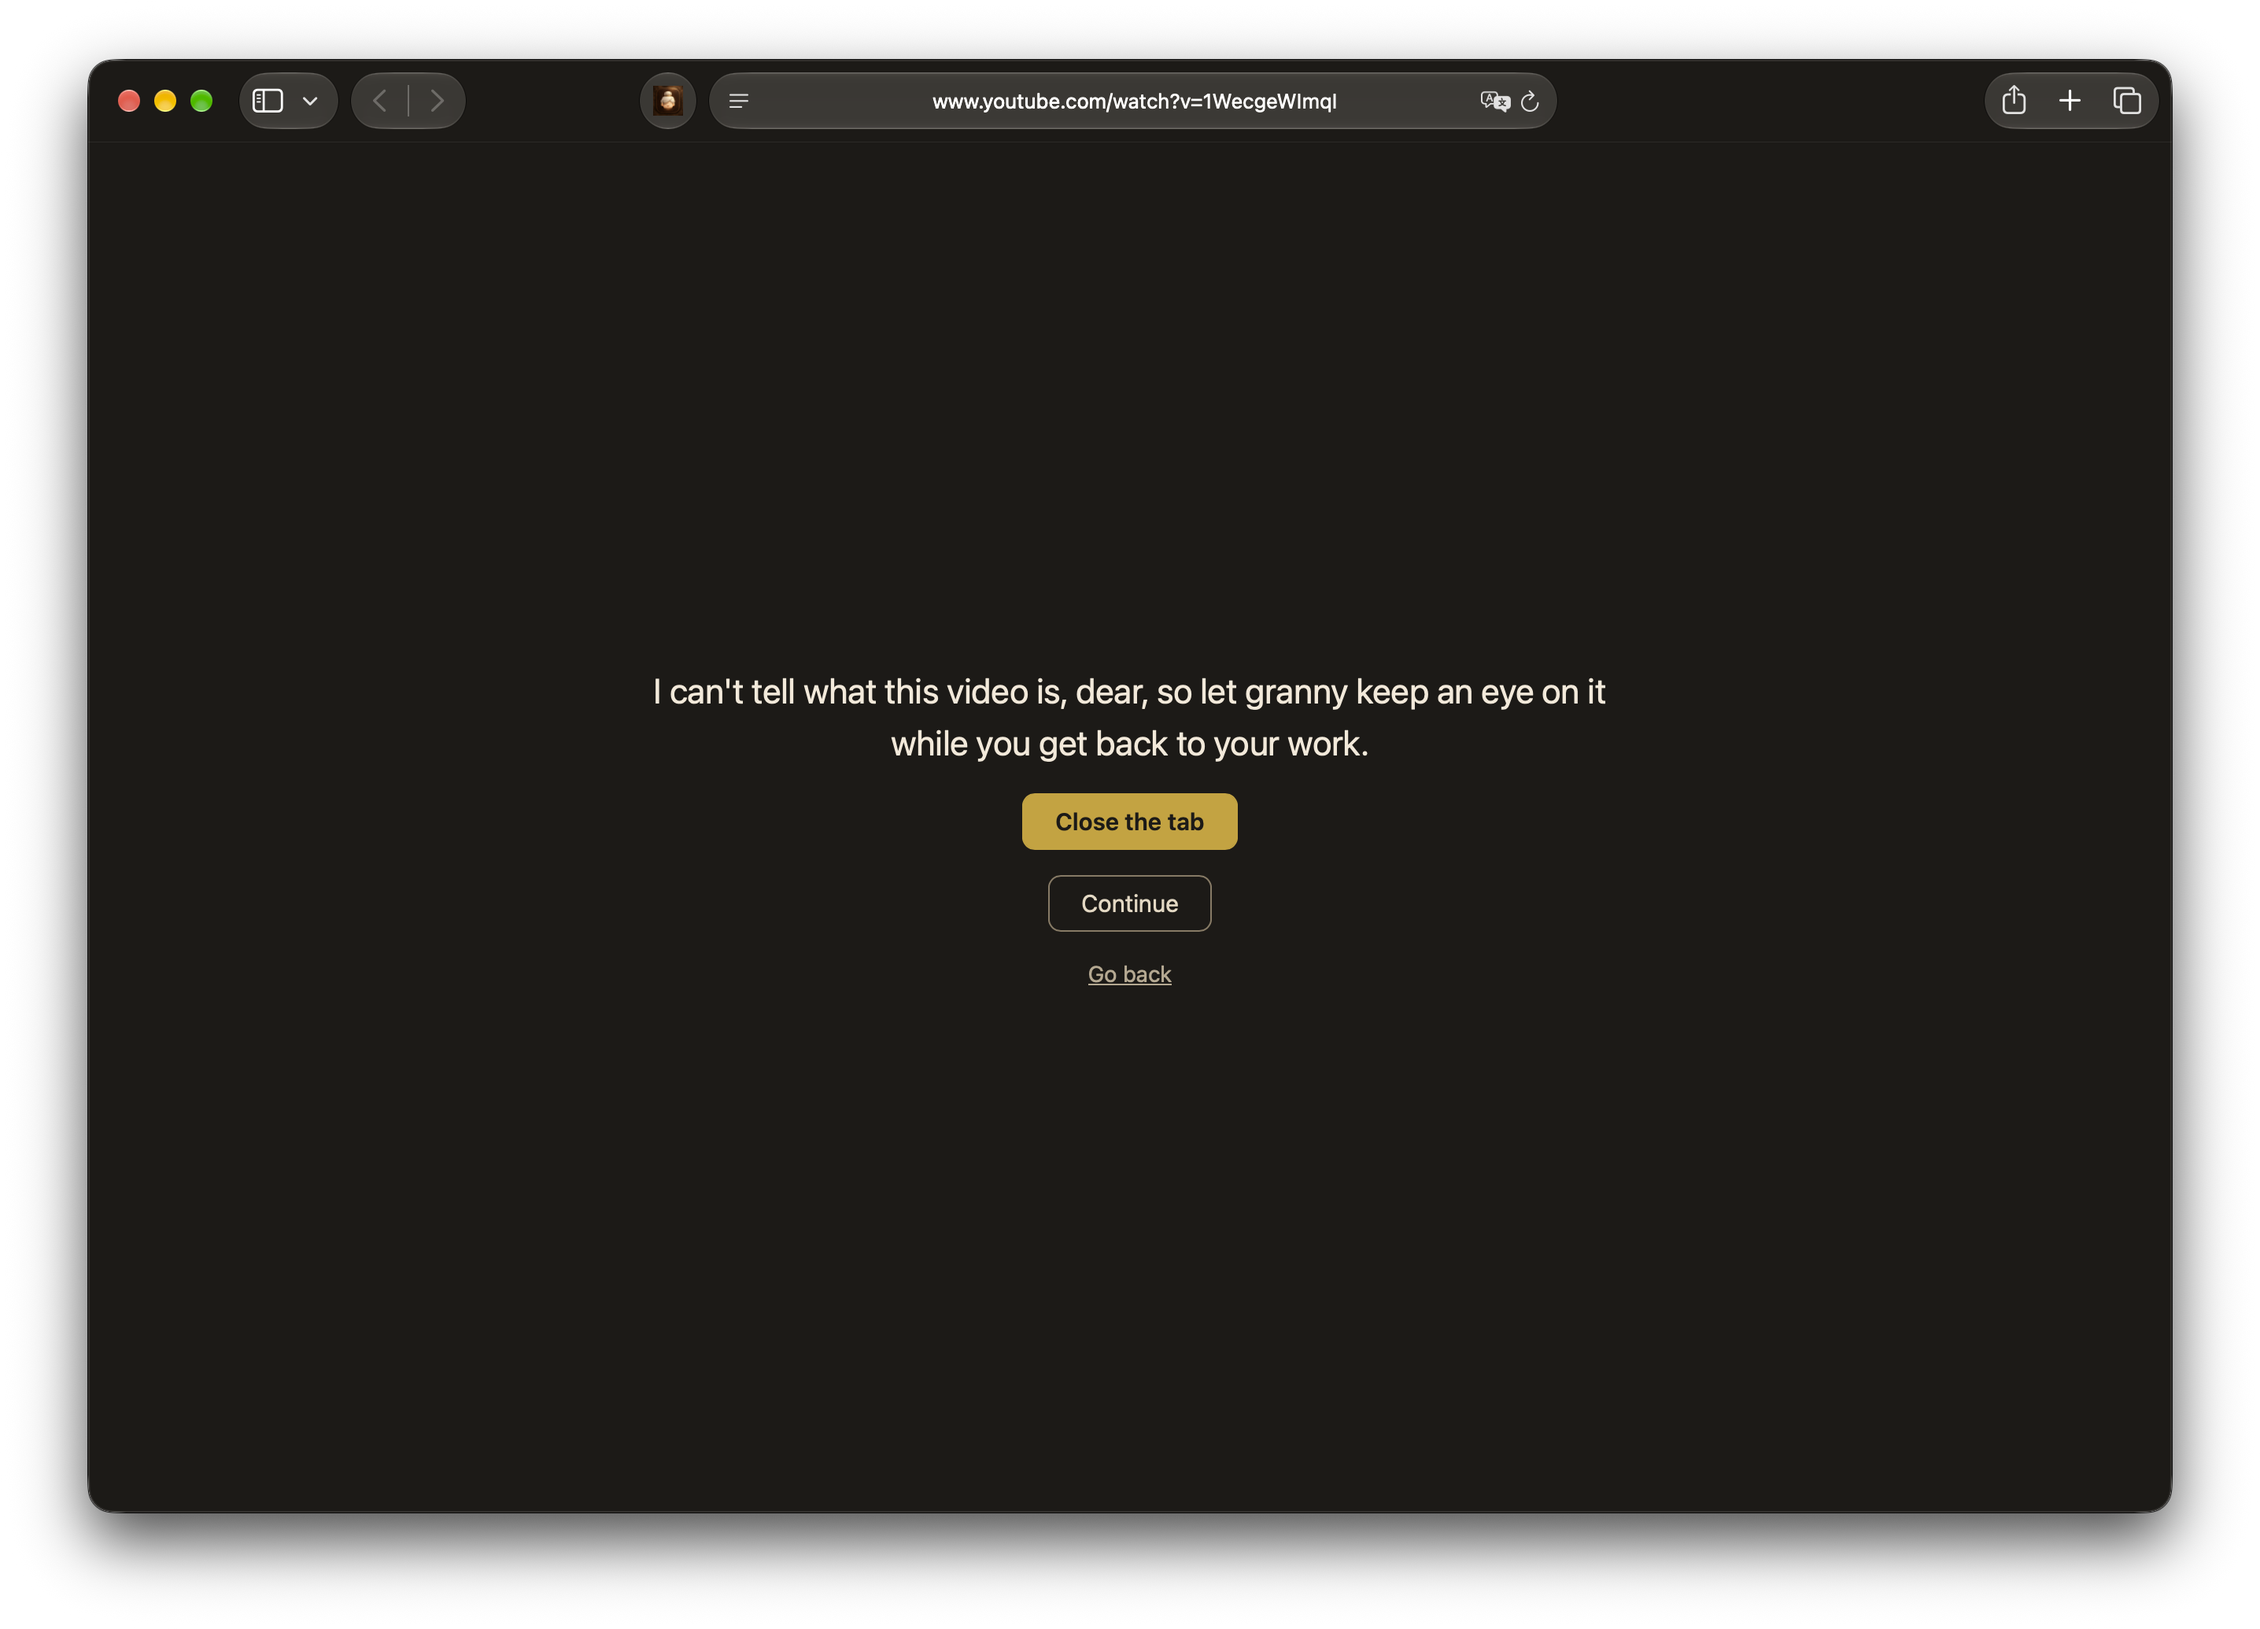
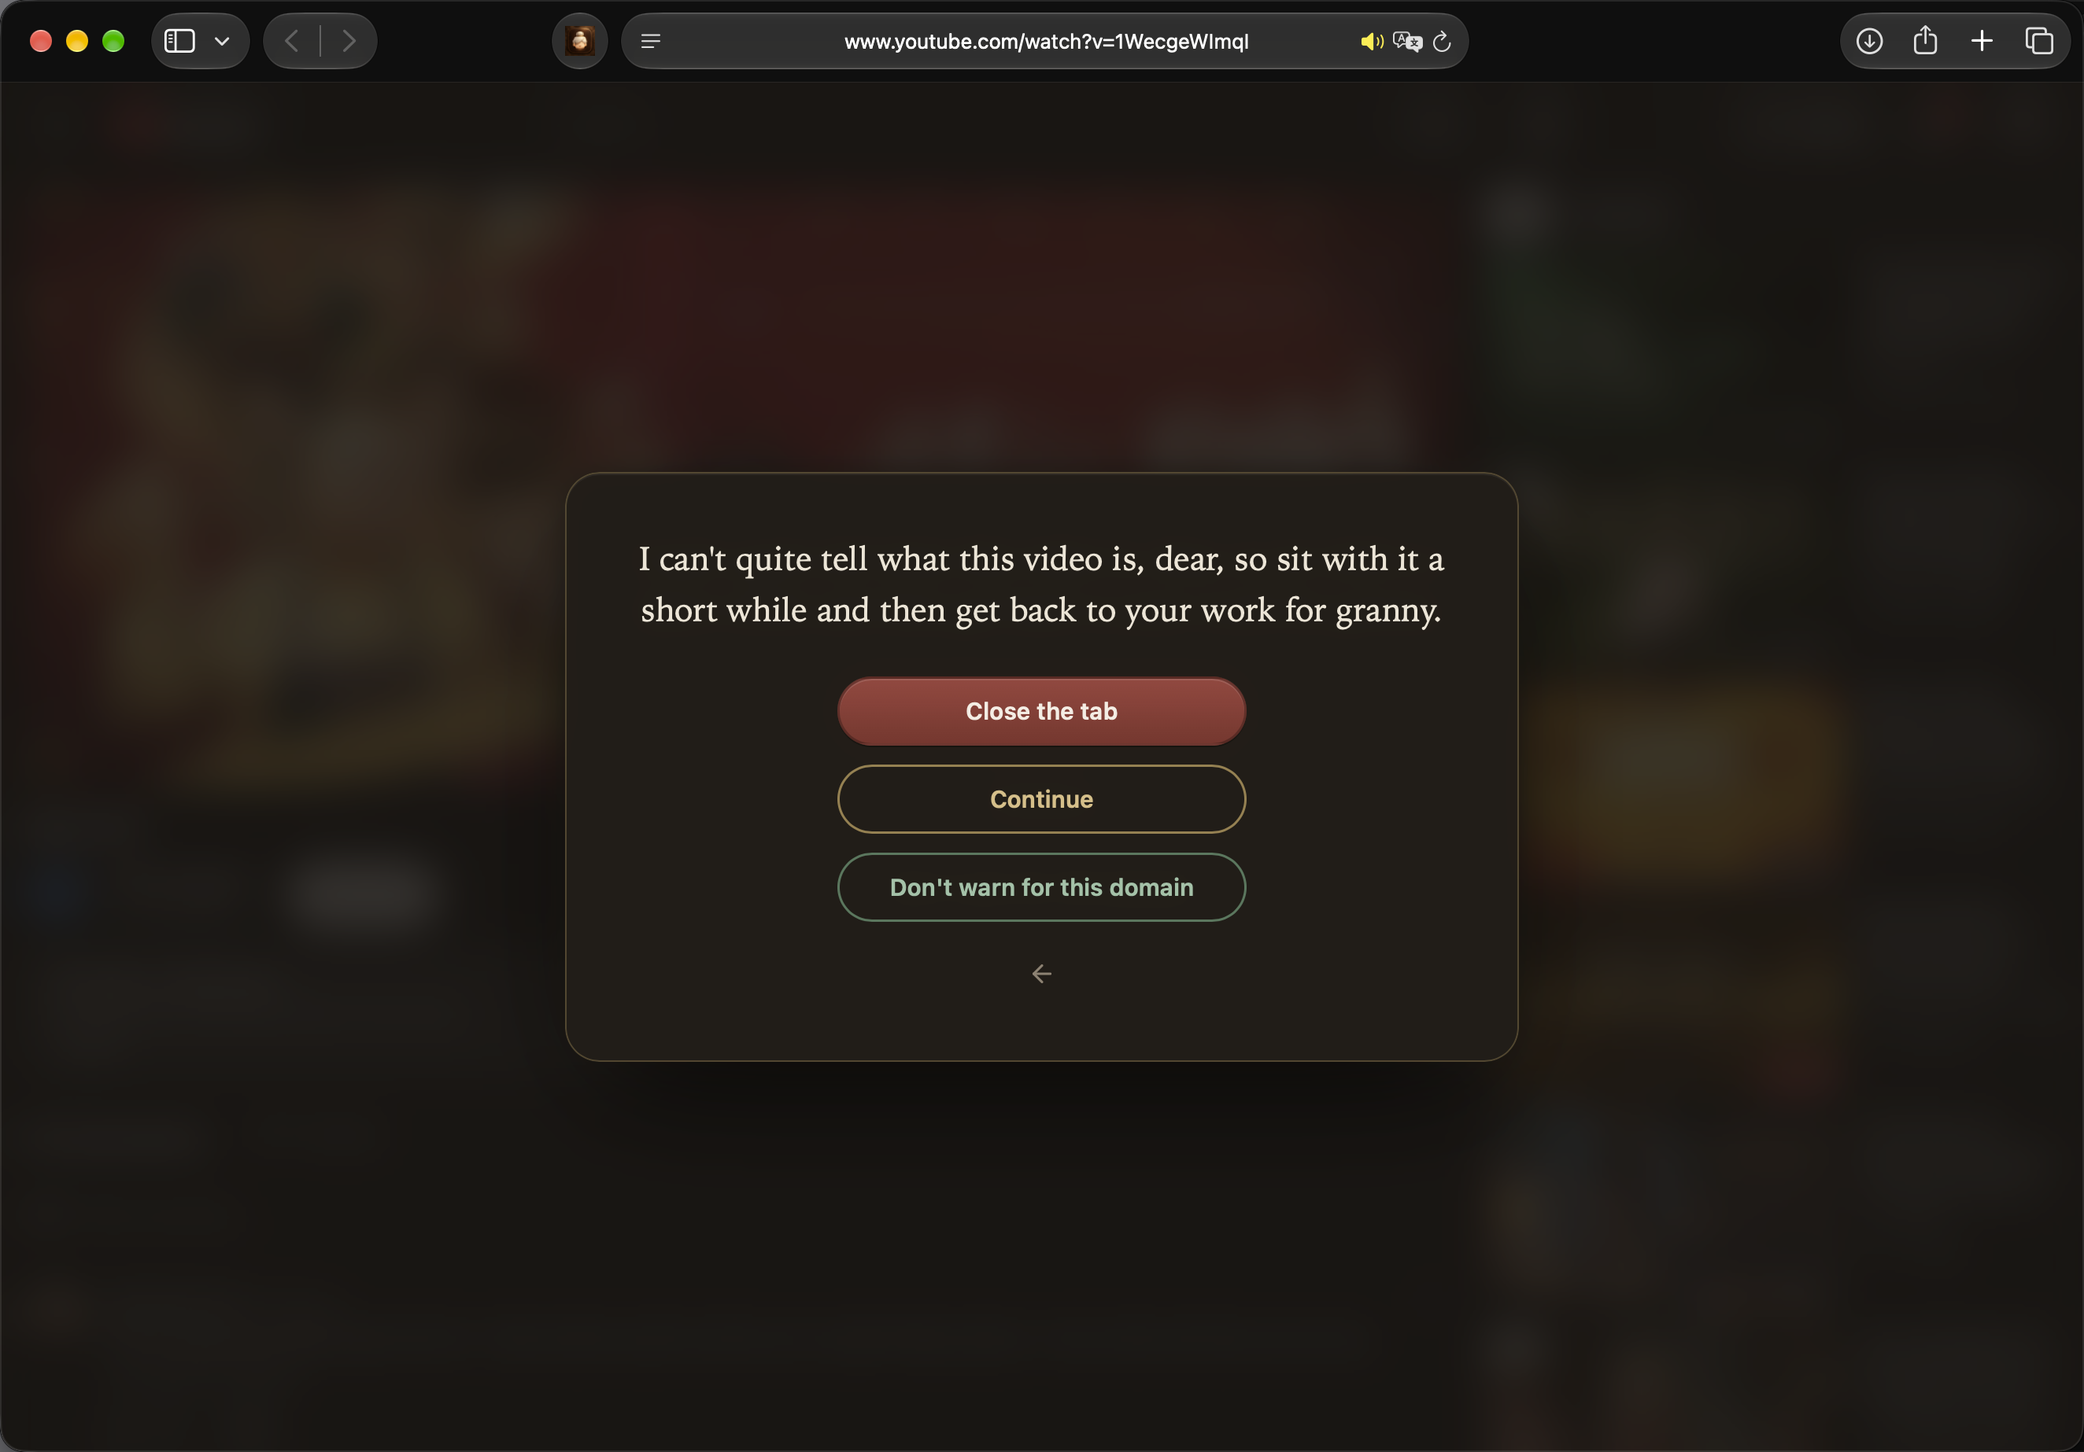
docs(blog): refresh the warn screenshots for the glass overlay

diff --git a/app/blog/install-extension/page.tsx b/app/blog/install-extension/page.tsx
@@ -167,9 +167,10 @@ export default function InstallExtension() {
                   n={7}
                   text={
                     <>
-                      Open a YouTube video. The warning offers <em>Close the tab</em> and{" "}
-                      <em>Continue</em>, both immediate - and <em>Go back</em> to the feed.
-                      Shorts stay a hard block.
+                      Open a YouTube video. The warning offers <em>Close the tab</em>{" "}
+                      (red), <em>Continue</em> (yellow), <em>Don&rsquo;t warn for this
+                      domain</em> (green - silence that site for the rest of the day),
+                      and a small back arrow. Shorts stay a hard block.
                     </>
                   }
                 >
@@ -242,7 +243,7 @@ export default function InstallExtension() {
                   n={4}
                   text={
                     <>
-                      Open a YouTube video: the same warning, same two immediate answers.
+                      Open a YouTube video: the same warning, the same choices.
                     </>
                   }
                 >
@@ -250,8 +251,8 @@ export default function InstallExtension() {
                     src="/guide/safari-warn.png"
                     alt="The granny warning on a YouTube video in Safari"
                     caption="The warning, in Safari"
-                    width={2872}
-                    height={2070}
+                    width={2648}
+                    height={1846}
                   />
                 </Step>
               </ol>
@@ -269,8 +270,10 @@ export default function InstallExtension() {
                     children: (
                       <>
                         A movie or vlog on YouTube gets a negotiable warning -{" "}
-                        <em>Close the tab</em> or <em>Continue</em>. Feeds get the same.
-                        Shorts stay a hard block.
+                        <em>Close the tab</em>, <em>Continue</em>, or{" "}
+                        <em>Don&rsquo;t warn for this domain</em> (silence that site
+                        until the day is over). Feeds get the same. Shorts stay a hard
+                        block.
                       </>
                     ),
                   },
